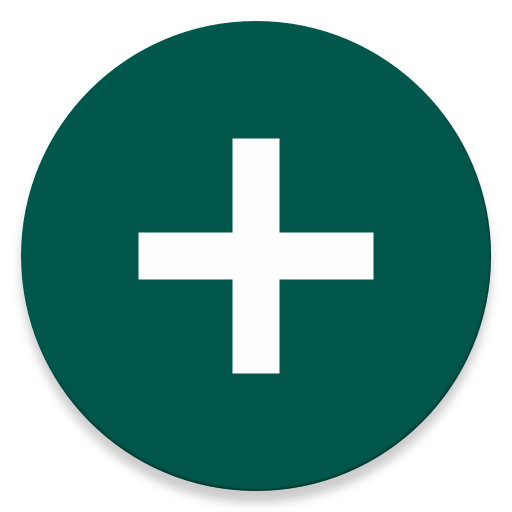
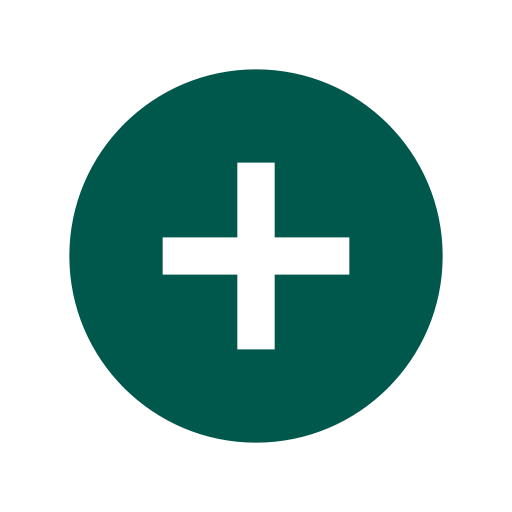
FAB instead of imagebutton

diff --git a/app/src/main/java/com/teamnumberb/pureair/HomeFragment.java b/app/src/main/java/com/teamnumberb/pureair/HomeFragment.java
@@ -35,7 +35,7 @@ public class HomeFragment extends Fragment {
     public void onViewCreated(@NonNull View view, @Nullable Bundle savedInstanceState) {
         super.onViewCreated(view, savedInstanceState);
         favouritesManager = new FavouritesManager(getContext());
-        view.findViewById(R.id.add_favorite).setOnClickListener(new View.OnClickListener() {
+        view.findViewById(R.id.fab).setOnClickListener(new View.OnClickListener() {
             @Override
             public void onClick(View v) {
                 Intent intent = new Intent(getContext(), AddFavouriteActivity.class);
